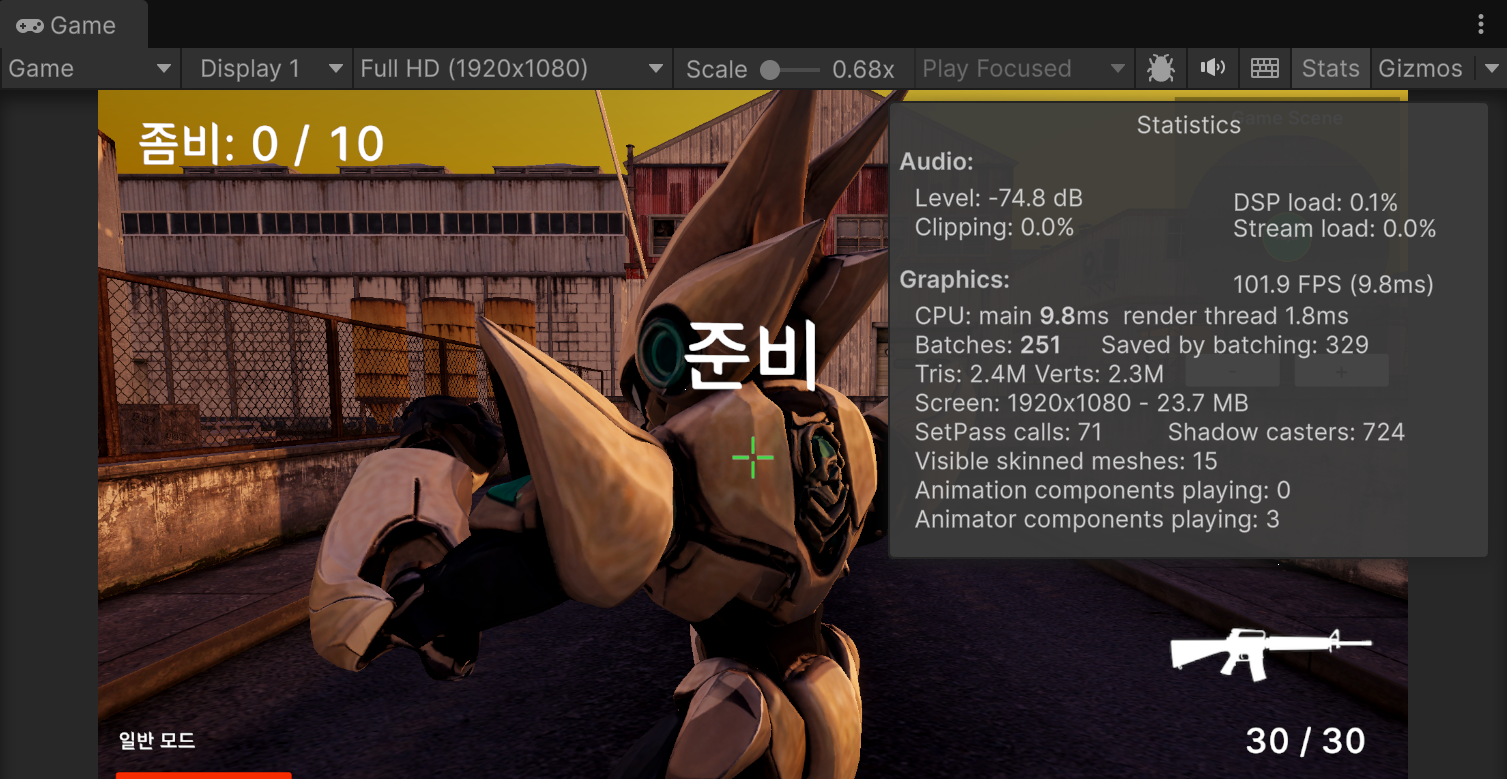
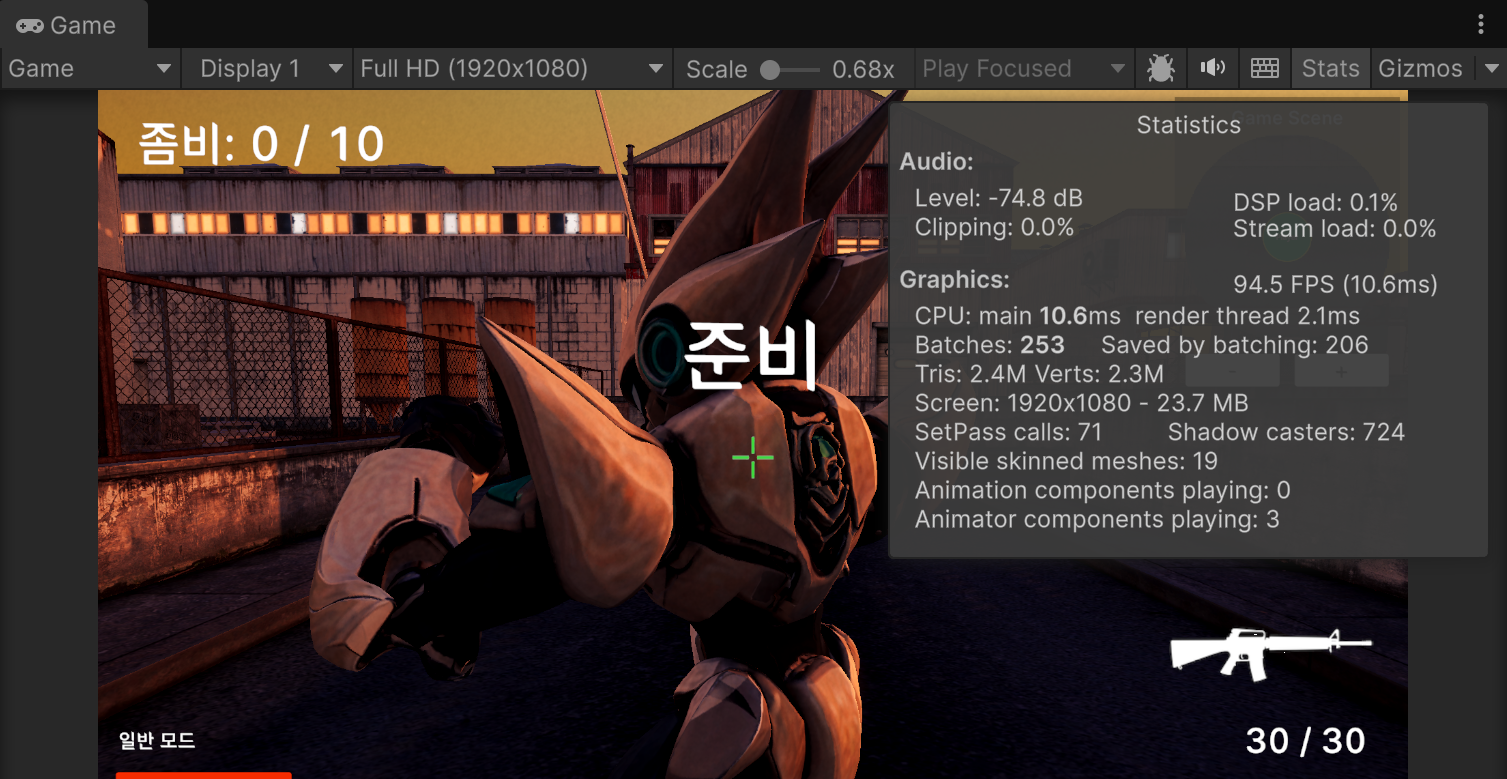
📝 docs: 포인트 조명 리포트의 시점 A Stats 캡처 교체
- 다른 창이 찍혀 Stats가 보이지 않던 stats_before_A, stats_compare_A를 재촬영해 교체
- 같은 Play 세션에서 포인트 조명 끔/켬, 그림자 거리 50/80만 바꿔 전후를 다시 캡처(stats_after_A 포함)
- Report.md의 시점 A 수치를 재촬영 값으로 갱신하고 측정 조건 차이를 명시

diff --git a/Docs/Performance/PointLight_ShadowDistance/Report.md b/Docs/Performance/PointLight_ShadowDistance/Report.md
@@ -22,10 +22,17 @@
 
 | 시점 | Batches | SetPass | Tris | Shadow casters | CPU main |
 |---|---:|---:|---:|---:|---:|
-| A | 260 → 251 | 73 → 71 | 2.9M → 2.4M | 680 → **724** (+6%) | 9.8 → 9.8 ms |
+| A* | 258 → 253 | 73 → 71 | 2.9M → 2.4M | 680 → **724** (+6%) | 10.5 → 10.6 ms |
 | B | 263 → 258 | 79 → 78 | 199.3k → 223.5k | 510 → **632** (+24%) | 10.3 → 10.2 ms |
 | C | 328 → **386** | 77 → 78 | 1.2M → **2.3M** | 294 → **642** (+118%) | 9.9 → 9.8 ms |
 | D | 275 → 277 | 70 → 71 | 1.2M → 1.2M | 130 → **221** (+70%) | 10.1 → 10.2 ms |
+
+\* 시점 A는 재촬영한 값이다(2026-11-02).
+- 처음 올린 `stats_before_A.png`, `stats_compare_A.png`는 캡처 순간 다른 창(코드 에디터)이 Unity 위에 있어서 Stats 창이 찍히지 않았다.
+- 재촬영은 이후 작업(창문 발광, 렌즈 플레어, 출입문 작업등, 포스트 프로세싱 등)이 들어간 현재 씬에서 했다.
+  - 같은 Play 세션에서 이 작업의 두 변경만 런타임으로 바꿔 전후를 찍었다: `PointLights` 끔/켬, Shadow Distance 50/80.
+  - 그래서 전후 비교는 같은 조건이지만, 절대값은 B~D와 기준 씬이 다르다.
+- 처음 측정의 A 값(260 → 251, Shadow casters 680 → 724)과 추세가 같다.
 
 ## 해석
 1. **포인트 조명:** Batches와 SetPass에 의미 있는 변화가 없다. 렌더러가 Forward+여서 추가 라이트가 Draw Call을 늘리지 않고, 그림자도 꺼 두었기 때문이다. 화면에서는 교전 구역의 벽과 노면에 따뜻한 빛이 생긴다(시점 E).
